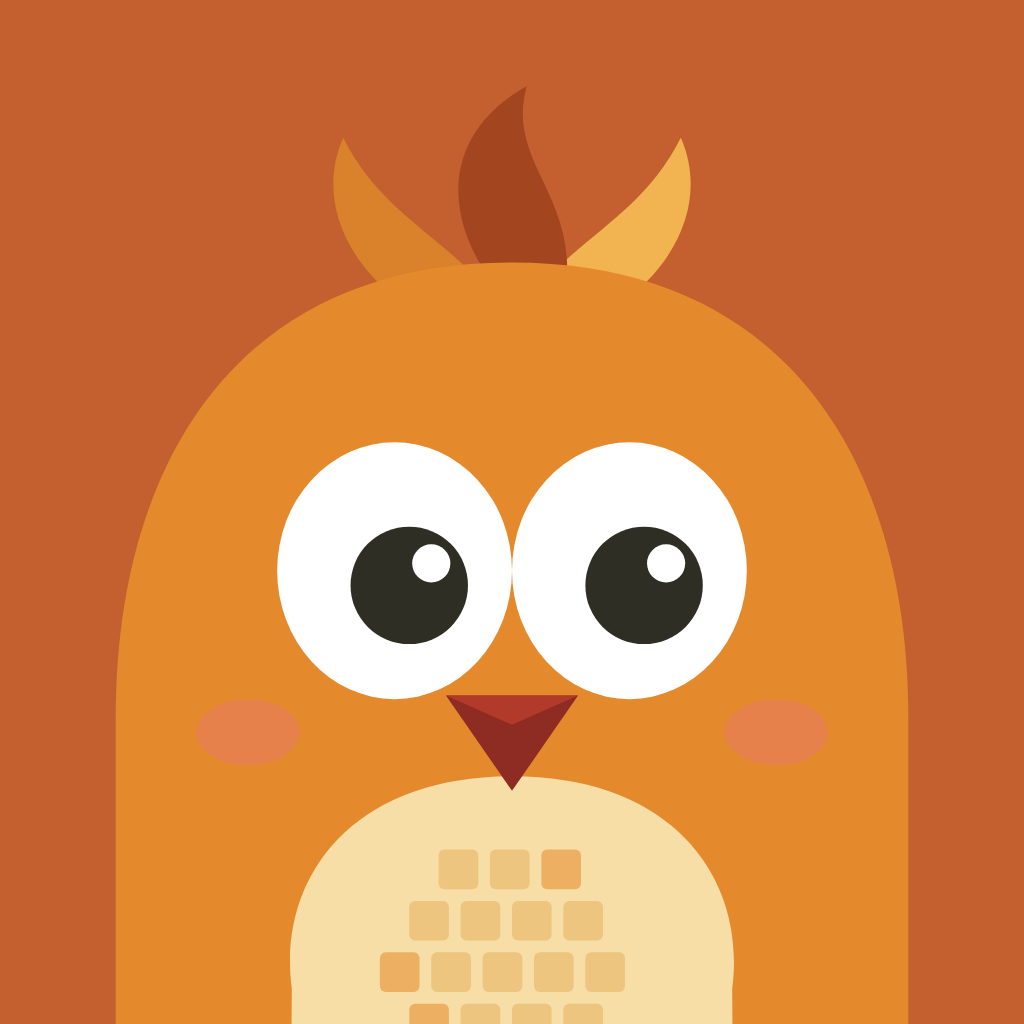
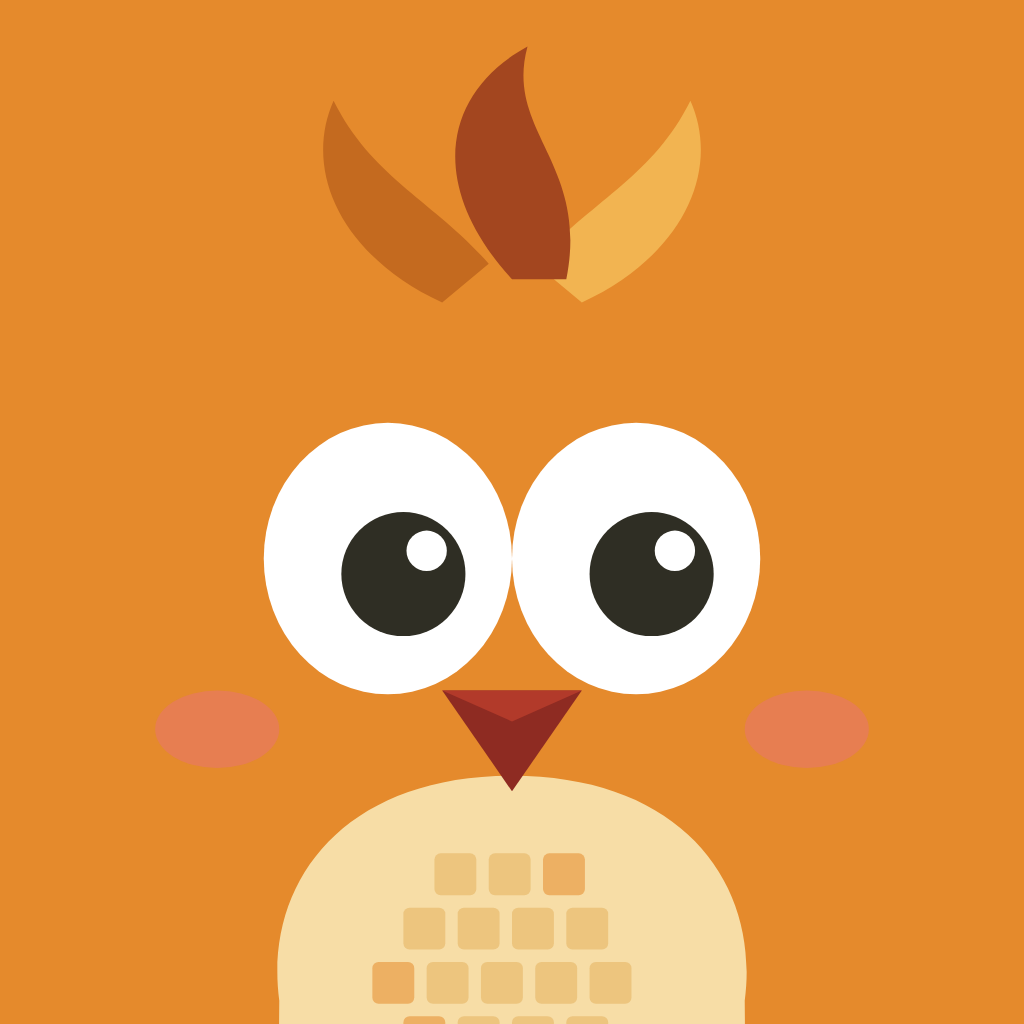
Simge: Duolingo gibi tam yüz; 3 boy widget (1x1, 2x1, 2x2) yeni tasarım; Ayarlar'dan widget ekleme
Claude-Session: https://claude.ai/code/session_01DB1QP3eZ25UbK9ALqcb5yA

diff --git a/js/learn.js b/js/learn.js
@@ -630,6 +630,9 @@ function renderProfile(){
   <div class="sec-h">Öğretmenine göster</div>
   <div class="card" style="display:grid;gap:10px"><p>Bu kod ilerlemeni özetler. Öğretmenin sınıf tablosuna yapıştırınca kaç ders ve deney bitirdiğini görür. Kodda yalnızca adın ve puanların var.</p>
   <div class="codebox"><code id="pcode">${code}</code><button class="b3 sm" type="button" id="pcopy">${ic('copy',16)}Kopyala</button></div></div>
+  ${typeof ANKA_N!=='undefined'&&ANKA_N?`<div class="sec-h">Ana ekran widget'ı</div>
+  <div class="card wpick"><p class="muted" style="margin:0 0 12px;font-size:.92rem">Anka ve serin ana ekranında dursun. Birine dokun, telefon nereye koyacağını sorar.</p>
+  <div class="wrow">${['l','m','s'].map((k,i)=>`<button type="button" class="wadd" data-w="${i}" aria-label="${['Büyük','Yatay','Küçük'][i]} widget ekle">${wMock(k)}<span>${['Büyük · 2×2','Yatay · 2×1','Küçük · 1×1'][i]}</span></button>`).join('')}</div></div>`:''}
   <div class="sec-h">Ayarlar</div>
   <div class="card set">
     <div><b>Titreşim</b><div class="seg" id="sVib"><button type="button" data-v="1" aria-pressed="${S.vib!==false}">Açık</button><button type="button" data-v="0" aria-pressed="${S.vib===false}">Kapalı</button></div></div>
@@ -648,7 +651,7 @@ function renderProfile(){
   $('#pcopy').onclick=async()=>{try{await navigator.clipboard.writeText(code);toast(ic('check',20)+' Kod kopyalandı')}catch(e){const r=document.createRange();r.selectNodeContents($('#pcode'));const s=getSelection();s.removeAllRanges();s.addRange(r);toast('Kodu seçtim, kopyalayabilirsin')}};
   $$('[data-cert]').forEach(b=>b.onclick=()=>openCert(+b.dataset.cert));
   const segH=(id,fn)=>{const el=$(id);if(el)el.onclick=e=>{const b=e.target.closest('button');if(!b)return;fn(b.dataset.v);save();renderAll()}};
-  segH('#sSound',v=>S.sound=v==='1');segH('#sVib',v=>{S.vib=v==='1';if(S.vib)haptic('heavy')});segH('#sTts',v=>{S.tts=v==='1';if(S.tts)speak('Sesli okuma açık.')});segH('#sTheme',v=>{S.theme=v;applyTheme()});segH('#sGoal',v=>S.goal=+v);segH('#sRem',v=>{S.remH=+v;if(S.remH>=0&&ANKA_N)ANKA_N.askNotif().then(r=>{if(r&&!r.granted)toast('Bildirim izni kapalı. Telefon ayarlarından açabilirsin.')}).catch(()=>{})});segH('#sShare',v=>{S.share=v==='1'});
+  segH('#sSound',v=>S.sound=v==='1');segH('#sVib',v=>{S.vib=v==='1';if(S.vib)haptic('heavy')});segH('#sTts',v=>{S.tts=v==='1';if(S.tts)speak('Sesli okuma açık.')});segH('#sTheme',v=>{S.theme=v;applyTheme()});segH('#sGoal',v=>S.goal=+v);$$('.wadd').forEach(b=>b.onclick=()=>{ANKA_N.pinWidget({size:+b.dataset.w}).then(r=>{if(!r||!r.ok)openModal(`${anka('think',100)}<h2>Kendin ekleyebilirsin</h2><p>Ana ekranda boş bir yere parmağını basılı tut, <b>Widget'lar</b>'a dokun ve listeden <b>Anka #BilimKıvılcımı</b>'nı bul.</p><button class="b3" type="button" onclick="closeModal()">Tamam</button>`)}).catch(()=>{})});segH('#sRem',v=>{S.remH=+v;if(S.remH>=0&&ANKA_N)ANKA_N.askNotif().then(r=>{if(r&&!r.granted)toast('Bildirim izni kapalı. Telefon ayarlarından açabilirsin.')}).catch(()=>{})});segH('#sShare',v=>{S.share=v==='1'});
   let armed=false;$('#sReset').onclick=e=>{if(!armed){armed=true;e.target.textContent='Emin misin? Tekrar bas';setTimeout(()=>{armed=false;if(e.target.isConnected)e.target.textContent='Sıfırla'},4000);return}
     try{localStorage.removeItem(KEY)}catch(_){ }S=DEF();S.lab.migrated=1;save();applyTheme();location.hash='#ogren';renderAll();onboard()};
 }

diff --git a/css/ekler.css b/css/ekler.css
@@ -78,3 +78,28 @@
 #toast button{pointer-events:auto}
 .icadd select{flex:1}
 .icadd button,.icfoot button,.icver button{white-space:nowrap}
+
+/* ===== Widget önizlemeleri (Ayarlar) ===== */
+.wrow{display:flex;gap:14px;align-items:flex-end;flex-wrap:wrap}
+.wadd{display:grid;justify-items:center;gap:6px;background:none;border:0;padding:4px;cursor:pointer;color:var(--ink);font:700 .8rem var(--body);border-radius:12px}
+.wadd:active .wm{transform:scale(.96)}
+.wadd:focus-visible{outline:2px solid var(--focus);outline-offset:2px}
+.wm{position:relative;display:flex;color:#fff;border-radius:22px;overflow:hidden;transition:transform .15s;box-shadow:0 6px 16px rgba(0,0,0,.18)}
+.wm.st0{background:linear-gradient(150deg,#6FC3EA,#2F7DB8)}
+.wm.st1{background:linear-gradient(150deg,#3E2C24,#22181A)}
+.wm.st2{background:linear-gradient(150deg,#FFF6E6,#F5E2C2);color:#7A2E16}
+.wm .anka{animation:none;cursor:inherit}
+.wm .wfl{display:inline-flex;color:#B9B0A8}.wm .wfl.on{color:#F28A1E}
+.wm .wnum{font:900 1.3rem/1 var(--body)}
+.wl{width:142px;height:142px;flex-direction:column;padding:10px;box-sizing:border-box}
+.wl .wst{display:flex;align-items:center;gap:3px}
+.wl .wak{flex:1;display:grid;place-items:center;min-height:0;margin:2px 0 6px}.wl .wak svg{height:80px;width:auto}
+.wl .wpill{display:block;text-align:center;font:700 .72rem/1 var(--body);padding:5px 6px;border-radius:99px;background:rgba(255,255,255,.2);white-space:nowrap}
+.wm.st2 .wpill{background:rgba(122,46,22,.12)}
+.wmid{width:142px;height:68px;align-items:center;padding:4px 10px 4px 4px;box-sizing:border-box;gap:4px}
+.wmid .wak{display:grid;place-items:center}
+.wmid .wtx{display:grid;gap:2px}.wmid .wst{display:flex;align-items:center;gap:3px}.wmid small{font:700 .66rem/1.15 var(--body)}
+.ws{width:68px;height:68px;align-items:center;justify-content:center}
+.ws .wak{margin-top:-10px}
+.ws .wbadge{position:absolute;bottom:4px;left:50%;transform:translateX(-50%);display:flex;align-items:center;gap:1px;background:#fff;color:#7A2E16;border-radius:99px;padding:1px 6px 1px 5px}
+.ws .wnum{font-size:.78rem}

diff --git a/js/main.js b/js/main.js
@@ -125,3 +125,12 @@ function ankaAfterLesson(){if(!ANKA_N||S.notifAsked||!S.lastDay)return;
       openModal(`${anka('happy',110,undefined,'act-jump')}<h2>Seni her gün hatırlatayım mı?</h2><p>Serin bozulmasın diye her akşam ${remHour()}:00'da kısa bir hatırlatma gönderirim. Saatini Profil'den değiştirebilirsin.</p><button class="b3" type="button" id="nYes">Evet, hatırlat</button><button class="b3 ghost" type="button" id="nNo">Şimdi değil</button>`);
       $('#nYes').onclick=()=>{closeModal();ANKA_N.askNotif().then(r=>{if(r&&r.granted){if(S.remH==null||S.remH<0)S.remH=19;save();ankaSync();toast('Tamam! Her gün hatırlatacağım.')}else toast('Bildirim izni verilmedi. İstersen telefon ayarlarından açabilirsin.')}).catch(()=>{})};
       $('#nNo').onclick=()=>{closeModal();S.remH=-1;save();toast('Tamam. İstersen Profil > Ayarlar\'dan açabilirsin.')}},700)}}
+
+/* Widget önizlemesi (Ayarlar'da). Telefondaki widget'ın aynısı: durum, Anka ve seri. */
+function wState(){const t=dkey();const done=S.lastDay===t;return done?0:S.streak>0?1:2}
+function wMock(k){const st=wState(),mood=['cheer','sad','wave'][st],sub=['Bugün tamam!','Ders zamanı!','Hadi başlayalım!'][st];
+  const fl=`<span class="wfl ${st===0?'on':''}">${fi('flame',k==='s'?12:20)}</span>`,num=`<b class="wnum">${S.streak|0}</b>`;
+  const ak=`<span class="wak">${anka(mood,k==='s'?56:k==='m'?62:92,null)}</span>`;
+  if(k==='s')return `<span class="wm ws st${st}">${ak}<span class="wbadge">${fl}${num}</span></span>`;
+  if(k==='m')return `<span class="wm wmid st${st}">${ak}<span class="wtx"><span class="wst">${fl}${num}</span><small>${sub}</small></span></span>`;
+  return `<span class="wm wl st${st}"><span class="wst">${fl}${num}</span>${ak}<small class="wpill">${sub}</small></span>`}

diff --git a/android/patch-manifest.js b/android/patch-manifest.js
@@ -21,13 +21,13 @@ const extra = alias('AnkaAlive', true, 'ic_launcher') + alias('AnkaDead', false,
                 <action android:name="android.intent.action.MY_PACKAGE_REPLACED" />
             </intent-filter>
         </receiver>
-        <receiver android:name=".AnkaWidget" android:exported="true" android:label="Anka">
+` + [['AnkaWidget', 'anka_widget_info', 'Anka (büyük)'], ['AnkaWidgetWide', 'anka_widget_wide_info', 'Anka (yatay)'], ['AnkaWidgetSmall', 'anka_widget_small_info', 'Anka (küçük)']].map(([n, x, l]) => `
+        <receiver android:name=".${n}" android:exported="true" android:label="${l}">
             <intent-filter>
                 <action android:name="android.appwidget.action.APPWIDGET_UPDATE" />
             </intent-filter>
-            <meta-data android:name="android.appwidget.provider" android:resource="@xml/anka_widget_info" />
-        </receiver>
-`;
+            <meta-data android:name="android.appwidget.provider" android:resource="@xml/${x}" />
+        </receiver>`).join('') + '\n';
 s = s.replace('</application>', extra + '    </application>');
 s = s.replace('<application', `<uses-permission android:name="android.permission.POST_NOTIFICATIONS" />
     <uses-permission android:name="android.permission.RECEIVE_BOOT_COMPLETED" />

diff --git a/android/java/AnkaCore.java b/android/java/AnkaCore.java
@@ -97,26 +97,47 @@ public final class AnkaCore {
   }
 
   /* ---------- Widget ---------- */
+  static final Class<?>[] WIDGETS = { AnkaWidget.class, AnkaWidgetWide.class, AnkaWidgetSmall.class };
+  static final int[] LAYOUTS = { R.layout.anka_widget, R.layout.anka_widget_wide, R.layout.anka_widget_small };
+
   static void updateWidgets(Context c) {
+    AppWidgetManager wm = AppWidgetManager.getInstance(c);
+    int s = streak(c);
+    /* Durum: 0 bugün tamam, 1 bekliyor, 2 henüz seri yok, 3 bayıldı */
+    int st = dead(c) ? 3 : doneToday(c) ? 0 : s > 0 ? 1 : 2;
+    int[] imgs = { R.drawable.anka_w_happy, R.drawable.anka_w_sad, R.drawable.anka_w_wave, R.drawable.anka_w_dead };
+    int[] bgs = { R.drawable.w_bg_done, R.drawable.w_bg_wait, R.drawable.w_bg_new, R.drawable.w_bg_dead };
+    String sub = st == 0 ? "Bugün tamam!" : st == 1 ? (lastChance(c) ? "Serini kurtar!" : "Ders zamanı!") : st == 2 ? "Hadi başlayalım!" : "Anka bayıldı!";
+    int ink = st == 2 ? 0xFF7A2E16 : 0xFFFFFFFF;
+    for (int k = 0; k < WIDGETS.length; k++) {
+      try {
+        int[] ids = wm.getAppWidgetIds(new ComponentName(c, WIDGETS[k]));
+        if (ids == null || ids.length == 0) continue;
+        RemoteViews rv = new RemoteViews(c.getPackageName(), LAYOUTS[k]);
+        rv.setImageViewResource(R.id.w_img, imgs[st]);
+        rv.setImageViewResource(R.id.w_flame, st == 0 ? R.drawable.w_flame_on : R.drawable.w_flame_off);
+        rv.setTextViewText(R.id.w_num, String.valueOf(st == 3 ? 0 : s));
+        rv.setInt(R.id.w_root, "setBackgroundResource", bgs[st]);
+        if (k != 2) {
+          rv.setTextViewText(R.id.w_sub, sub);
+          rv.setTextColor(R.id.w_sub, ink);
+          rv.setTextColor(R.id.w_num, ink);
+          if (k == 0) rv.setInt(R.id.w_sub, "setBackgroundResource", st == 2 ? R.drawable.w_pill_dark : R.drawable.w_pill);
+        }
+        rv.setOnClickPendingIntent(R.id.w_root, openApp(c, 10 + k));
+        wm.updateAppWidget(ids, rv);
+      } catch (Exception e) { }
+    }
+  }
+
+  /* Ayarlar'dan "ana ekrana ekle" (Android 8+, başlatıcı destekliyorsa) */
+  static boolean pinWidget(Context c, int k) {
     try {
-      AppWidgetManager wm = AppWidgetManager.getInstance(c);
-      int[] ids = wm.getAppWidgetIds(new ComponentName(c, AnkaWidget.class));
-      if (ids == null || ids.length == 0) return;
-      RemoteViews rv = new RemoteViews(c.getPackageName(), R.layout.anka_widget);
-      int s = streak(c);
-      int img, bg = R.drawable.anka_widget_bg;
-      String t, sub;
-      if (dead(c)) { img = R.drawable.anka_w_dead; bg = R.drawable.anka_widget_bg_dead; t = "Anka bayıldı!"; sub = "Bir ders yap, canlansın"; }
-      else if (doneToday(c)) { img = R.drawable.anka_w_happy; t = "🔥 " + s + " gün"; sub = "Bugünkü ders tamam!"; }
-      else if (s > 0) { img = R.drawable.anka_w_sad; t = "🔥 " + s + " gün"; sub = lastChance(c) ? "Serini kaybetme!" : "Bugün ders yapalım"; }
-      else { img = R.drawable.anka_w_happy; t = "Merhaba!"; sub = "Hadi bir ders yapalım"; }
-      rv.setImageViewResource(R.id.w_img, img);
-      rv.setTextViewText(R.id.w_title, t);
-      rv.setTextViewText(R.id.w_sub, sub);
-      rv.setInt(R.id.w_root, "setBackgroundResource", bg);
-      rv.setOnClickPendingIntent(R.id.w_root, openApp(c, 10));
-      wm.updateAppWidget(ids, rv);
-    } catch (Exception e) { }
+      if (Build.VERSION.SDK_INT < 26) return false;
+      AppWidgetManager wm = c.getSystemService(AppWidgetManager.class);
+      if (wm == null || !wm.isRequestPinAppWidgetSupported()) return false;
+      return wm.requestPinAppWidget(new ComponentName(c, WIDGETS[Math.max(0, Math.min(2, k))]), null, null);
+    } catch (Exception e) { return false; }
   }
 
   static PendingIntent openApp(Context c, int code) {

diff --git a/android/java/AnkaWidgetSmall.java b/android/java/AnkaWidgetSmall.java
@@ -1,0 +1,14 @@
+package org.antiochrising.bilimkivilcimi;
+
+import android.appwidget.AppWidgetManager;
+import android.appwidget.AppWidgetProvider;
+import android.content.Context;
+
+/* Ana ekran widget'ı (Small) */
+public class AnkaWidgetSmall extends AppWidgetProvider {
+  @Override
+  public void onUpdate(Context c, AppWidgetManager wm, int[] ids) {
+    AnkaCore.updateWidgets(c);
+    AnkaCore.schedule(c);
+  }
+}

diff --git a/android/java/AnkaWidgetWide.java b/android/java/AnkaWidgetWide.java
@@ -1,0 +1,14 @@
+package org.antiochrising.bilimkivilcimi;
+
+import android.appwidget.AppWidgetManager;
+import android.appwidget.AppWidgetProvider;
+import android.content.Context;
+
+/* Ana ekran widget'ı (Wide) */
+public class AnkaWidgetWide extends AppWidgetProvider {
+  @Override
+  public void onUpdate(Context c, AppWidgetManager wm, int[] ids) {
+    AnkaCore.updateWidgets(c);
+    AnkaCore.schedule(c);
+  }
+}

diff --git a/android/java/AnkaPlugin.java b/android/java/AnkaPlugin.java
@@ -49,6 +49,13 @@ public class AnkaPlugin extends Plugin {
     requestPermissionForAlias("notif", call, "notifCb");
   }
 
+  @PluginMethod
+  public void pinWidget(PluginCall call) {
+    JSObject r = new JSObject();
+    r.put("ok", AnkaCore.pinWidget(getContext(), call.getInt("size", 0)));
+    call.resolve(r);
+  }
+
   @PermissionCallback
   private void notifCb(PluginCall call) { notifState(call); }
 }
